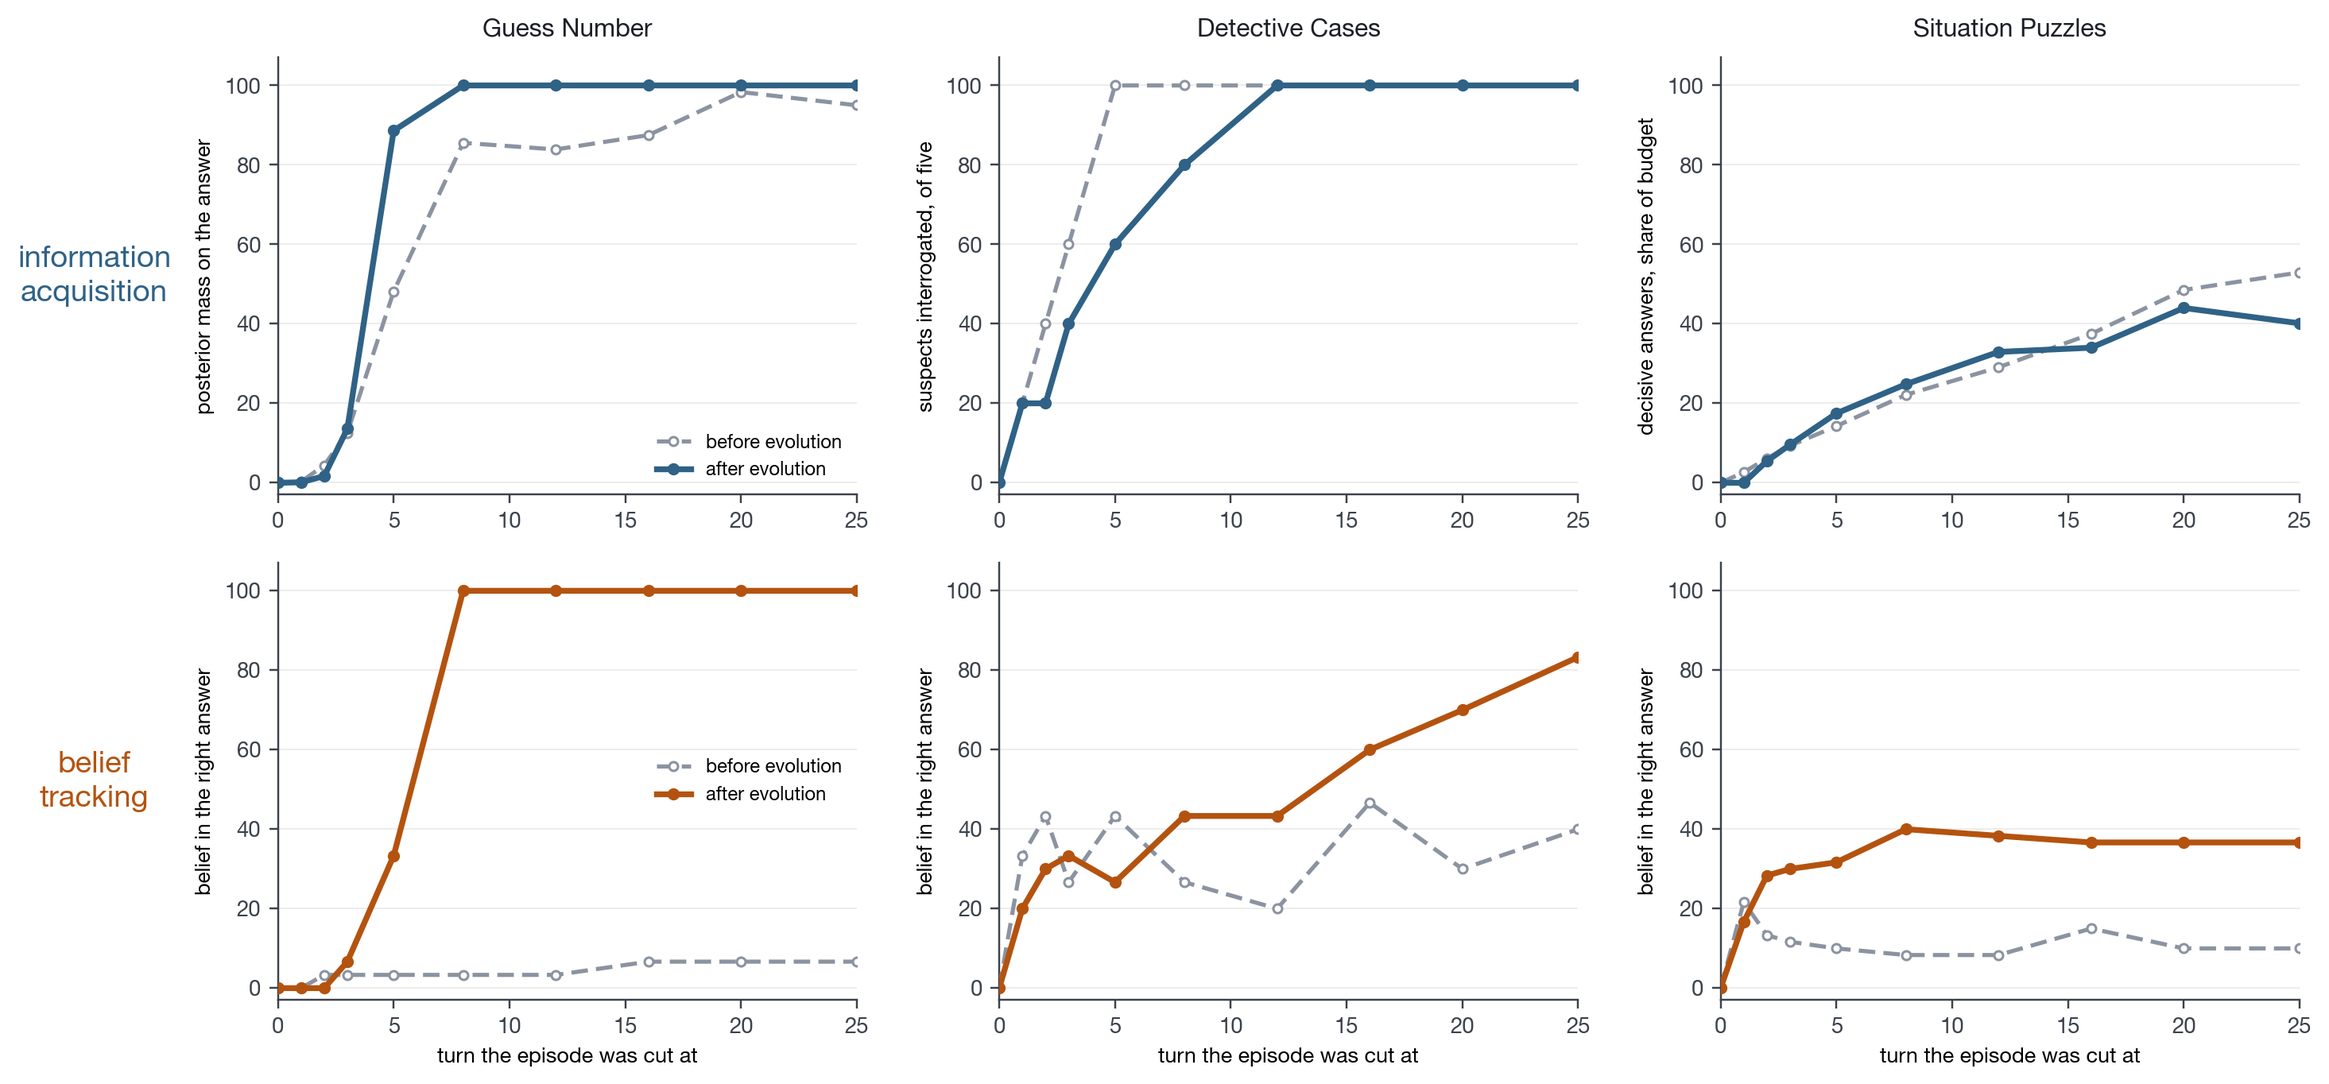
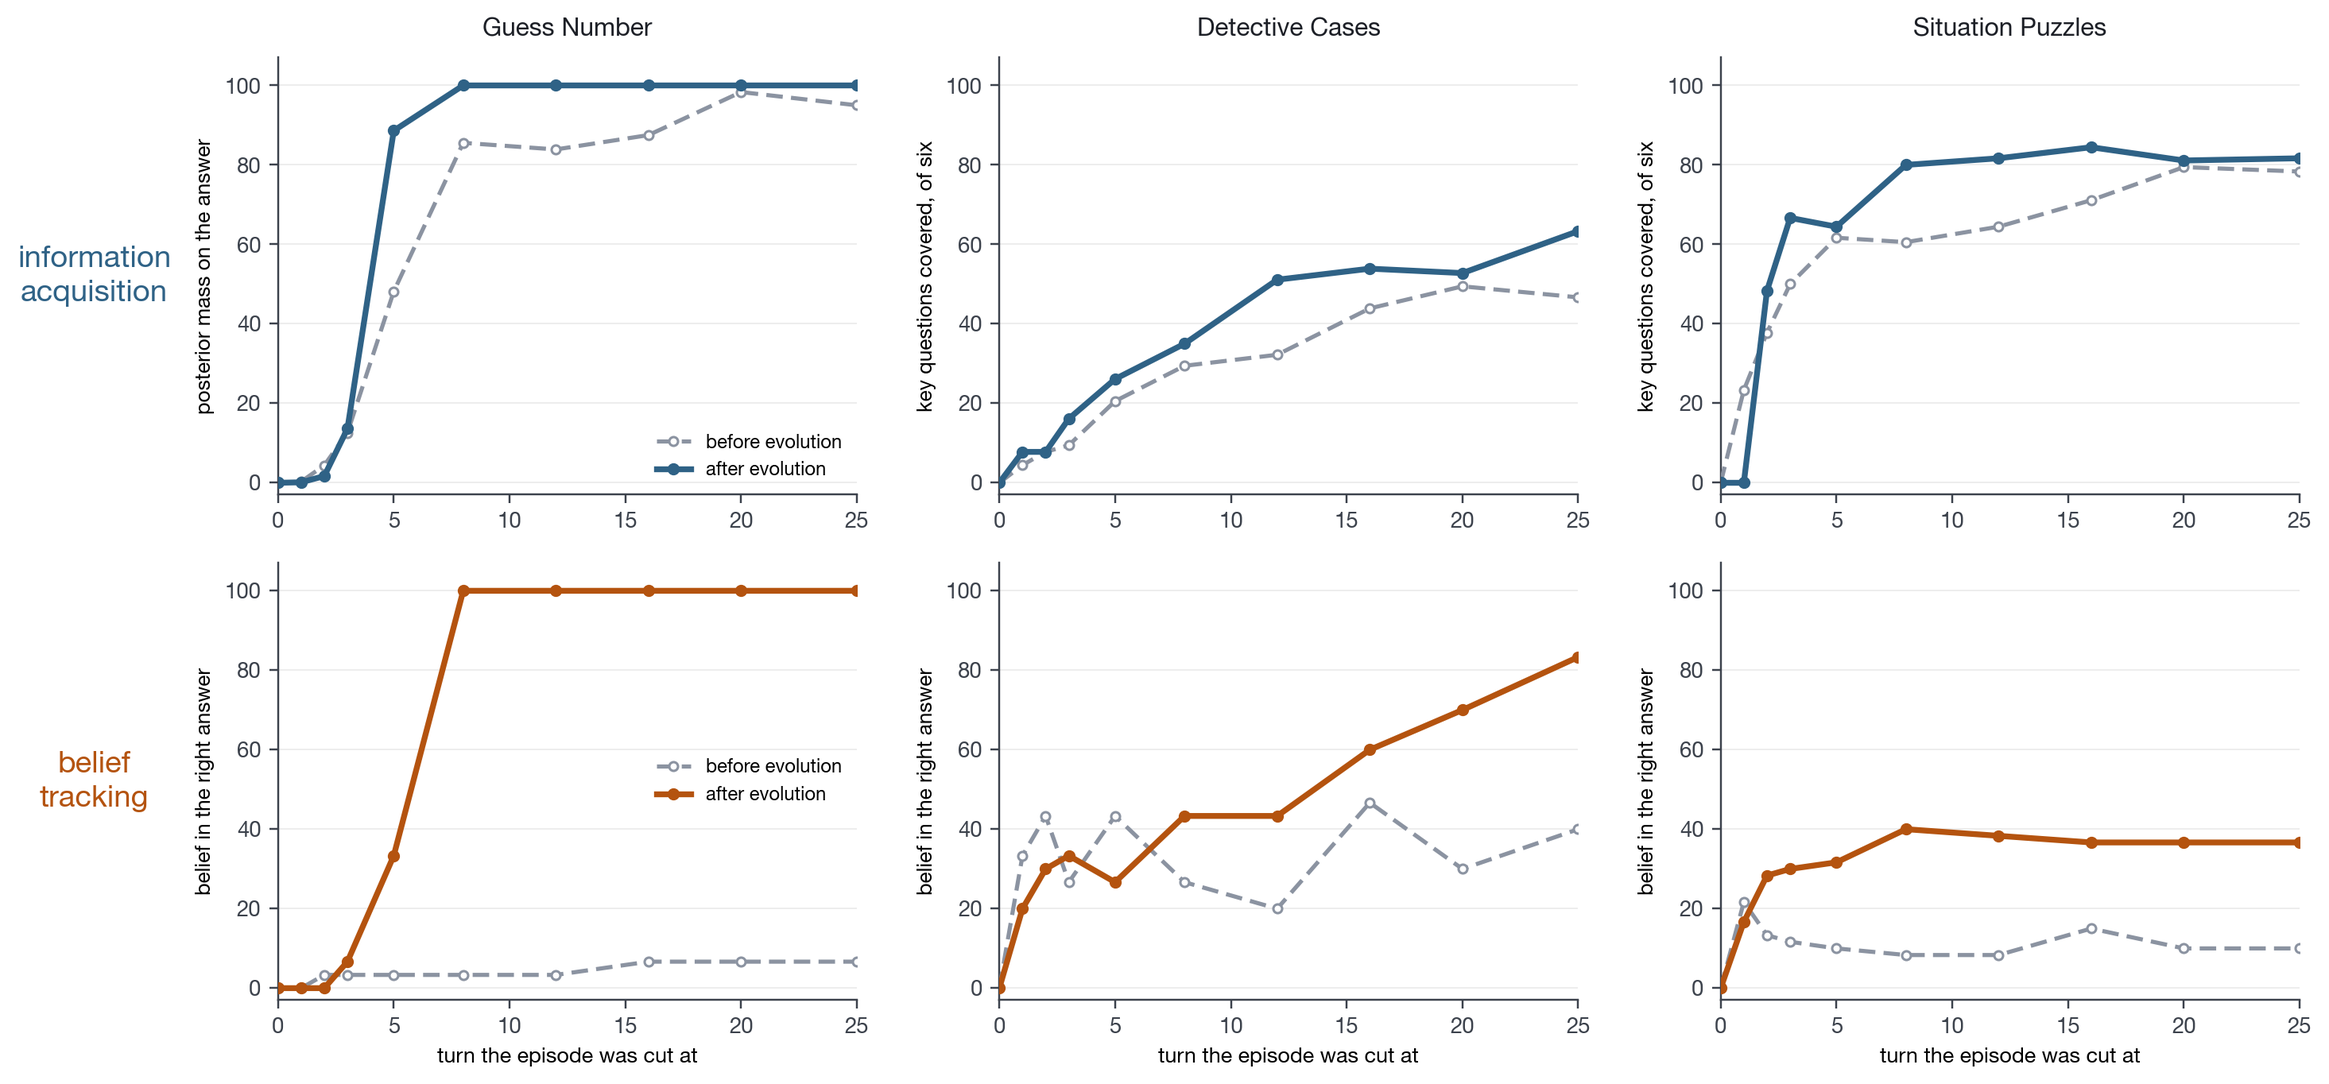
measure information acquisition with the benchmark's own key questions
The first column was a proxy on two of the three tasks, and both proxies
were unsound.

On Detective Cases it counted distinct suspects interrogated, out of
five. Twenty-five turns and five suspects: the seed is at 100 by turn 5
and the evolved harness by turn 12, so the turn-25 number the report
quotes was 100 against 100 -- a ceiling, not a measurement. It is also
blind to content, since five pointless questions, one per suspect, score
full marks.

On Situation Puzzles it counted decisive answers over a fixed budget of
25, whatever the episode's length. The evolved harness stops early -- 4
to 25 turns against the seed's flat 25 -- so it was being marked down for
stopping rather than for learning less.

AR-Bench ships what the proxies stood in for: six key_question entries
per instance, and a judging rule, a question hits a keypoint when it can
directly lead to it. The rule is theirs, verbatim. The judge is not:
AR-Bench sends this to the same model that plays the suspects, which here
is the frozen 7B under test, and a model cannot be its own instrument.
Jev judges it, as it referees SP.

Guess Number keeps the exact posterior mass, and recomputing it through
the same tool reproduces the published curve point for point, which is
what certifies that the tool introduces no difference of its own.

Each point is read off the run whose budget was that turn, as belief
tracking is, because belief tracking can only be read by ending the
[…]

diff --git a/meta/tools/keypoint_cov.py b/meta/tools/keypoint_cov.py
@@ -1,0 +1,286 @@
+"""Both abilities' first column, re-measured: what the questions were worth, per task.
+
+The proxy this replaces counted distinct suspects interrogated, out of five. On a 25-turn budget
+that saturates: the seed harness is at 100 by turn 5 and the evolved one by turn 12, so the number
+the report quotes at turn 25 is 100 against 100 and cannot move. It is also blind to content --
+five pointless questions, one per suspect, score full marks.
+
+AR-Bench ships the thing the proxy was standing in for. Every case carries six `key_question`
+entries (100 of 100 cases: three on the murderer, one each on three others, none on the fifth),
+and `dc_evaluator.py` judges each question against the keypoints of the suspect it was put to,
+accumulating `matched_keyquestion_set` and `question_hit_cnt`. Both are reported here, because
+they are different quantities and only one of them is what the report's IA_t defines.
+
+COVERAGE, |matched_keyquestion_set| / 6, is the faithful analogue: IA_t = E[1/|H_t|] is a state --
+how much is known -- and asking one good question twice does not raise it. Its risk is the risk
+the suspect proxy already has: six keypoints in twenty-five turns may saturate, and then the
+turn-25 number is a ceiling again rather than a measurement.
+
+HIT RATE, question_hit_cnt / questions asked, is how good the questions were. It has no ceiling
+in the same place: covering all six in ten questions and covering all six in twenty-five are 60
+and 24. It is not what IA_t defines, so reporting it means saying so.
+
+One judge call yields both.
+
+The judging rule is theirs, verbatim from `dc/prompt.py`: a question hits a keypoint when it can
+DIRECTLY LEAD to it. The judge is not: AR-Bench sends this to `response_model`, which in our setup
+is the frozen 7B that also plays the suspects and is the policy under test. Measuring that model
+with itself cannot separate "the harness did not improve" from "the 7B cannot tell". So the judge
+is Jev, as it is for the SP referee, and this is a substitution -- comparable across harnesses run
+under it, not to AR-Bench's published numbers.
+
+Jev takes several typed questions against one state, so a turn costs one call carrying that
+suspect's keypoints, not one call per keypoint.
+
+Coverage is monotone inside an episode, so the whole curve comes from the 25-turn run by taking
+prefixes. No per-budget re-runs, and both curves are read off the transcripts already recorded.
+
+    python meta/tools/dc_keypoint_cov.py dc_template_zero_shot_b25.json dc_lean_verify_b25.json \
+        --cases AR-Bench/data/dc/test.json --out dc_cov.json
+"""
+from __future__ import annotations
+
+import argparse
+import json
+import os
+import subprocess
+import sys
+import time
+import urllib.request
+from pathlib import Path
+
+# TypeSafe's own endpoint. A resold key (jevgo.cn and the like) speaks the same protocol at its
+# own host, so the address is configurable rather than written in: the relay sees every state we
+# send, which for a published benchmark is a routing choice, not a disclosure.
+JEV_API = os.environ.get("JEV_API", "https://api.typesafe.ai/v1/systemone")
+TURNS = [1, 2, 3, 5, 8, 12, 16, 20, 25]
+
+# dc/prompt.py: "If the player's questions can directly leads to the key points, you can say that
+# the question hits the key points". One keypoint, one typed question.
+INSTRUCTIONS_SP = (
+    "You are the referee of a situation-puzzle game. The player is shown the <Surface>; you are "
+    "given the <Bottom>. Understand the whole story from both, then judge whether the player's "
+    "question hits the keypoint: it hits when the question can directly lead to the keypoint, and "
+    "misses otherwise."
+)
+INSTRUCTIONS = (
+    "You are the referee of a detective game. The player interrogates a suspect, knowing only the "
+    "case's initial information; you are given that suspect's private story. Judge whether the "
+    "player's question hits the keypoint: it hits when the question can directly lead to the "
+    "keypoint, and misses otherwise."
+)
+
+
+def api_key():
+    k = os.environ.get("TYPESAFE_API_KEY")
+    if k:
+        return k.strip()
+    return subprocess.run(["security", "find-generic-password", "-s", "typesafe_token", "-w"],
+                          capture_output=True, text=True, check=True).stdout.strip()
+
+
+def judge(state, keypoints, key, model, retries=4):
+    """-> (set of hit indices, input tokens). `keypoints` is {index: text}."""
+    instr = INSTRUCTIONS_SP if "Surface" in state else INSTRUCTIONS
+    qs = {f"k{i}": {"type": "choice", "instructions": instr,
+                    "criteria": {"Hit": f"The question can directly lead to: {t}",
+                                 "Miss": "The question cannot directly lead to that keypoint."}}
+          for i, t in keypoints.items()}
+    body = {"model": model, "state": state, "questions": qs}
+    req = urllib.request.Request(JEV_API, method="POST", data=json.dumps(body).encode(),
+                                 headers={"Authorization": f"Bearer {key}",
+                                          "Content-Type": "application/json"})
+    last = None
+    for a in range(retries):
+        try:
+            d = json.load(urllib.request.urlopen(req, timeout=90))
+            hits = {i for i in keypoints
+                    if (d["answers"].get(f"k{i}") or {}).get("choice") == "Hit"}
+            return hits, (d.get("usage") or {}).get("input_tokens", 0)
+        except Exception as e:
+            last = e
+            time.sleep(1.5 * (a + 1))
+    raise RuntimeError(f"Jev failed after {retries} attempts: {last}")
+
+
+def keypoints_sp(case):
+    """SP keeps its six `key_question` at the top of the instance, with no suspect to address, so
+    one judge call per turn carries all six against the puzzle's own Surface and Bottom."""
+    ks = case.get("key_question") or []
+    return {None: {j + 1: t for j, t in enumerate(ks)}}, len(ks)
+
+
+def keypoints_of(case):
+    """{suspect name: {global index: keypoint text}} -- indices run 1..6 across the case, in the
+    order dc_evaluator builds them, so the union size is the denominator."""
+    out, n = {}, 0
+    for s in case["suspects"]:
+        ks = s.get("key_question") or []
+        if ks:
+            out[s["name"]] = {n + j + 1: t for j, t in enumerate(ks)}
+            n += len(ks)
+    return out, n
+
+
+def curve_point(curves, t):
+    """Mean over episodes of the value at turn t, holding the last value for a short episode:
+    coverage cannot fall, the episode simply stopped asking."""
+    return sum(c[min(t, len(c)) - 1] if c else 0.0 for c in curves) / len(curves)
+
+
+def run_gn(path):
+    """No judge: Guess Number's own feedback settles both columns from the transcript.
+
+    COVERAGE is the posterior mass 1/|H_t| the report already uses -- exact, since the feedback is
+    deterministic and the target never leaves H_t.
+
+    HIT RATE is T3's (ICLR 2026) dead-turn criterion read the other way round: a guess is spent
+    when d(H_{t-1}, H_t) = |H_{t-1}| - |H_t| <= 0, so the share of guesses that strictly cut the
+    candidate set is the same quantity the keypoint judge estimates on the two text tasks -- how
+    many of the questions asked were worth asking.
+    """
+    sys.path.insert(0, str(Path(__file__).parent))
+    from ia_bt import ALL, feedback
+    # An episode that asked nothing is a real episode with zero coverage, not a missing record:
+    # at a one-turn budget the evolved SP harness declines to ask at all (30 of 30, round 0). The
+    # two are told apart by whether the key is there, since a run written before transcripts were
+    # recorded has no `history` key at all.
+    rows = [r for r in json.load(open(path)) if "history" in r]
+    curves = []
+    for r in rows:
+        H, cov, rate, useful, asked = ALL, [], [], 0, 0
+        for g, a, b in (tuple(h) for h in r["history"]):
+            prev = len(H)
+            H = [x for x in H if feedback(x, g) == (a, b)]
+            asked += 1
+            useful += 1 if len(H) < prev else 0
+            cov.append(100.0 / len(H) if H else 0.0)
+            rate.append(100.0 * useful / asked)
+        curves.append((cov or [0.0], rate or [0.0]))
+    out = []
+    for col in (0, 1):
+        out.append([sum(c[col][min(t, len(c[col])) - 1] if c[col] else 0.0 for c in curves)
+                    / len(curves) for t in TURNS])
+    return out[0], out[1], len(curves), 0, 0
+
+
+def run(path, cases, key, model, log, task):
+    rows = [r for r in json.load(open(path)) if "history" in r]
+    curves, spent, calls = [], 0, 0
+    for ep, r in enumerate(rows):
+        case = cases[ep]
+        if task == "sp":
+            kp, total = keypoints_sp(case)
+            init, stories = case["surface"], {None: case["bottom"]}
+        else:
+            kp, total = keypoints_of(case)
+            init = json.dumps(case["initial_information"])
+            stories = {s["name"]: s["story"] for s in case["suspects"]}
+        # Positional alignment is an assumption, so it is checked: every suspect a transcript
+        # names must be one of this case's suspects, or the episode is matched to the wrong case.
+        unknown = set() if task == "sp" else {h[0] for h in r["history"]} - set(stories)
+        if unknown:
+            raise SystemExit("episode %d does not belong to case %s: %s"
+                             % (ep, case.get("index"), sorted(unknown)[:3]))
+        hits, per_turn, per_turn_rate = set(), [], []
+        asked = hit_q = 0
+        for h in (tuple(x) for x in r["history"]):
+            name, question = (None, h[0]) if task == "sp" else (h[0], h[1])
+            if name in kp:
+                state = ({"Surface": init, "Bottom": stories[None], "player_question": question}
+                         if task == "sp" else
+                         {"CaseInformation": init, "Suspect": name,
+                          "SuspectStory": stories[name], "player_question": question})
+                h, tin = judge(state, kp[name], key, model)
+                hits |= h
+                asked += 1
+                hit_q += 1 if h else 0
+                spent += tin
+                calls += 1
+                if log:
+                    log.write(json.dumps({"file": Path(path).name, "episode": ep,
+                                          "case": case.get("index"), "suspect": name, "q": question,
+                                          "hits": sorted(h), "input_tokens": tin}) + "\n")
+                    log.flush()
+            per_turn.append(100.0 * len(hits) / total)
+            # Questions put to the fifth suspect carry no keypoints, so they can never hit and are
+            # not counted either way: the rate is over the questions the rule can actually judge.
+            per_turn_rate.append(100.0 * hit_q / asked if asked else 0.0)
+        curves.append((per_turn or [0.0], per_turn_rate or [0.0]))
+    # mean over episodes at each requested turn; an episode shorter than t holds its last value,
+    # because coverage cannot fall and the episode simply stopped asking.
+    cov, rate = [], []
+    for t in TURNS:
+        for col, dest in ((0, cov), (1, rate)):
+            vals = [c[col][min(t, len(c[col])) - 1] if c[col] else 0.0 for c in curves]
+            dest.append(sum(vals) / len(vals))
+    return cov, rate, len(curves), calls, spent
+
+
+def sweep(prefix, root, cases, key, model, log, task):
+    """One point per budget, each read off the run whose budget was that turn.
+
+    This is how belief tracking is read -- the episode has to end at t for the system to be asked
+    for its answer -- so reading information acquisition off prefixes of the 25-turn run would put
+    the two rows of a panel on different runs. On Guess Number the two readings differ by up to
+    7.5 points, which is large enough that the choice has to be the same for both rows.
+    """
+    cov, rate, ns, calls, spent = [], [], [], 0, 0
+    for t in TURNS:
+        path = os.path.join(root, "%s_b%d.json" % (prefix, t))
+        if task == "gn":
+            c, r, n, k, tin = run_gn(path)
+        else:
+            c, r, n, k, tin = run(path, cases, key, model, log, task)
+        # the run's own last turn is this budget's point
+        cov.append(c[-1])
+        rate.append(r[-1])
+        ns.append(n)
+        calls += k
+        spent += tin
+    return cov, rate, min(ns), calls, spent
+
+
+def main():
+    ap = argparse.ArgumentParser()
+    ap.add_argument("runs", nargs="+")
+    ap.add_argument("--cases", help="the split the runs were driven from; not needed for gn")
+    ap.add_argument("--task", choices=("gn", "dc", "sp"), default="dc")
+    ap.add_argument("--model", default="jev-1.14.0")
+    ap.add_argument("--out")
+    ap.add_argument("--log")
+    ap.add_argument("--limit", type=int, help="first N episodes, for a smoke test")
+    ap.add_argument("--sweep", metavar="DIR",
+                    help="read each turn off <DIR>/<prefix>_b<turn>.json instead of prefixes of "
+                         "one run; `runs` are then prefixes, not paths")
+    a = ap.parse_args()
+
+    raw = json.load(open(a.cases)) if a.cases else {}
+    # The split file the runs were driven from; episodes are its instances in order.
+    cases = raw["instances"] if isinstance(raw, dict) and "instances" in raw else raw
+    key = api_key() if a.task != "gn" else None
+    log = open(a.log, "a") if a.log else None
+    res = {}
+    for p in a.runs:
+        if a.limit:
+            rows = [r for r in json.load(open(p)) if r.get("history")][:a.limit]
+            tmp = Path(p).with_suffix(".limit.json")
+            json.dump(rows, open(tmp, "w"))
+            p = str(tmp)
+        if a.sweep:
+            cov, rate, n, calls, tin = sweep(p, a.sweep, cases, key, a.model, log, a.task)
+        elif a.task == "gn":
+            cov, rate, n, calls, tin = run_gn(p)
+        else:
+            cov, rate, n, calls, tin = run(p, cases, key, a.model, log, a.task)
+        res[Path(p).stem if not a.sweep else p] = {"turns": TURNS, "n": n, "coverage": cov, "hit_rate": rate}
+        print("%-30s n=%-3d calls=%-5d $%.4f  turn25: coverage=%.1f  hit_rate=%.1f"
+              % (Path(p).stem if not a.sweep else p, n, calls, tin * 0.042 / 1e6, cov[-1], rate[-1]), file=sys.stderr)
+    if a.out:
+        json.dump(res, open(a.out, "w"), indent=1)
+    else:
+        print(json.dumps(res, indent=1))
+
+
+if __name__ == "__main__":
+    main()

diff --git a/meta/tools/merge_ia.py b/meta/tools/merge_ia.py
@@ -1,0 +1,45 @@
+"""Put the re-measured information-acquisition column into the curves file the figure reads.
+
+The first column changed on every task. Belief tracking did not: it is the same measurement
+everywhere and is left exactly as it was.
+
+  gn  unchanged in substance -- the posterior mass 1/|H_t| -- but recomputed by the same tool as
+      the other two, which reproduces the published curve point for point and so certifies that
+      the tool is not introducing a difference of its own.
+  dc  distinct suspects interrogated, of five  ->  key questions covered, of six. The old proxy
+      saturates: both harnesses sit at 100 from turn 12 on, so the turn-25 number was a ceiling,
+      not a measurement.
+  sp  decisive answers as a share of the budget  ->  key questions covered, of six. The old proxy
+      divides by a fixed 25 whatever the episode's length, so a harness that stops early scores
+      low for stopping rather than for learning less, and the evolved harness stops early.
+
+Both readings of the old IA are kept under `ia_old_*`, and the hit rate -- what share of the
+questions asked were worth asking -- is kept alongside, so neither has to be recomputed to be
+argued about.
+
+    python meta/tools/merge_ia.py notes/arbench_mh/ia_bt_curves.json gn_cov_sweep.json dc_... sp_...
+"""
+import json
+import sys
+
+PAIRS = {"gn_template_zero_shot": "gn_template_zero_shot", "gn_packed_group_echo": "gn_packed_group_echo",
+         "dc_template_zero_shot": "dc_template_zero_shot", "dc_lean_verify": "dc_lean_verify",
+         "sp_baseline_zero_shot": "sp_baseline_zero_shot", "sp_atomic_audit": "sp_atomic_audit"}
+
+cur = json.load(open(sys.argv[1]))
+new = {}
+for p in sys.argv[2:]:
+    new.update(json.load(open(p)))
+
+for k, src in PAIRS.items():
+    if src not in new or k not in cur:
+        continue
+    assert cur[k]["turns"] == new[src]["turns"], k
+    cur[k].setdefault("ia_old", cur[k]["ia"])
+    cur[k]["ia"] = new[src]["coverage"]
+    cur[k]["hit_rate"] = new[src]["hit_rate"]
+    cur[k]["ia_n"] = new[src]["n"]
+    print("%-24s turn25: %5.1f -> %5.1f   hit rate %5.1f"
+          % (k, cur[k]["ia_old"][-1], cur[k]["ia"][-1], new[src]["hit_rate"][-1]))
+
+json.dump(cur, open(sys.argv[1], "w"))

diff --git a/meta/tools/plot_ia_bt.py b/meta/tools/plot_ia_bt.py
@@ -59,9 +59,9 @@ out = Path(sys.argv[2] if len(sys.argv) > 2 else "figures")
 TASKS = [("Guess Number", "gn_template_zero_shot", "gn_packed_group_echo",
           "posterior mass on the answer"),
          ("Detective Cases", "dc_template_zero_shot", "dc_lean_verify",
-          "suspects interrogated, of five"),
+          "key questions covered, of six"),
          ("Situation Puzzles", "sp_baseline_zero_shot", "sp_atomic_audit",
-          "decisive answers, share of budget")]
+          "key questions covered, of six")]
 TASKS = [t for t in TASKS if t[1] in data and t[2] in data]
 
 fig, axes = plt.subplots(2, len(TASKS), figsize=(4.1 * len(TASKS) + 1.0, 6.2), squeeze=False)
